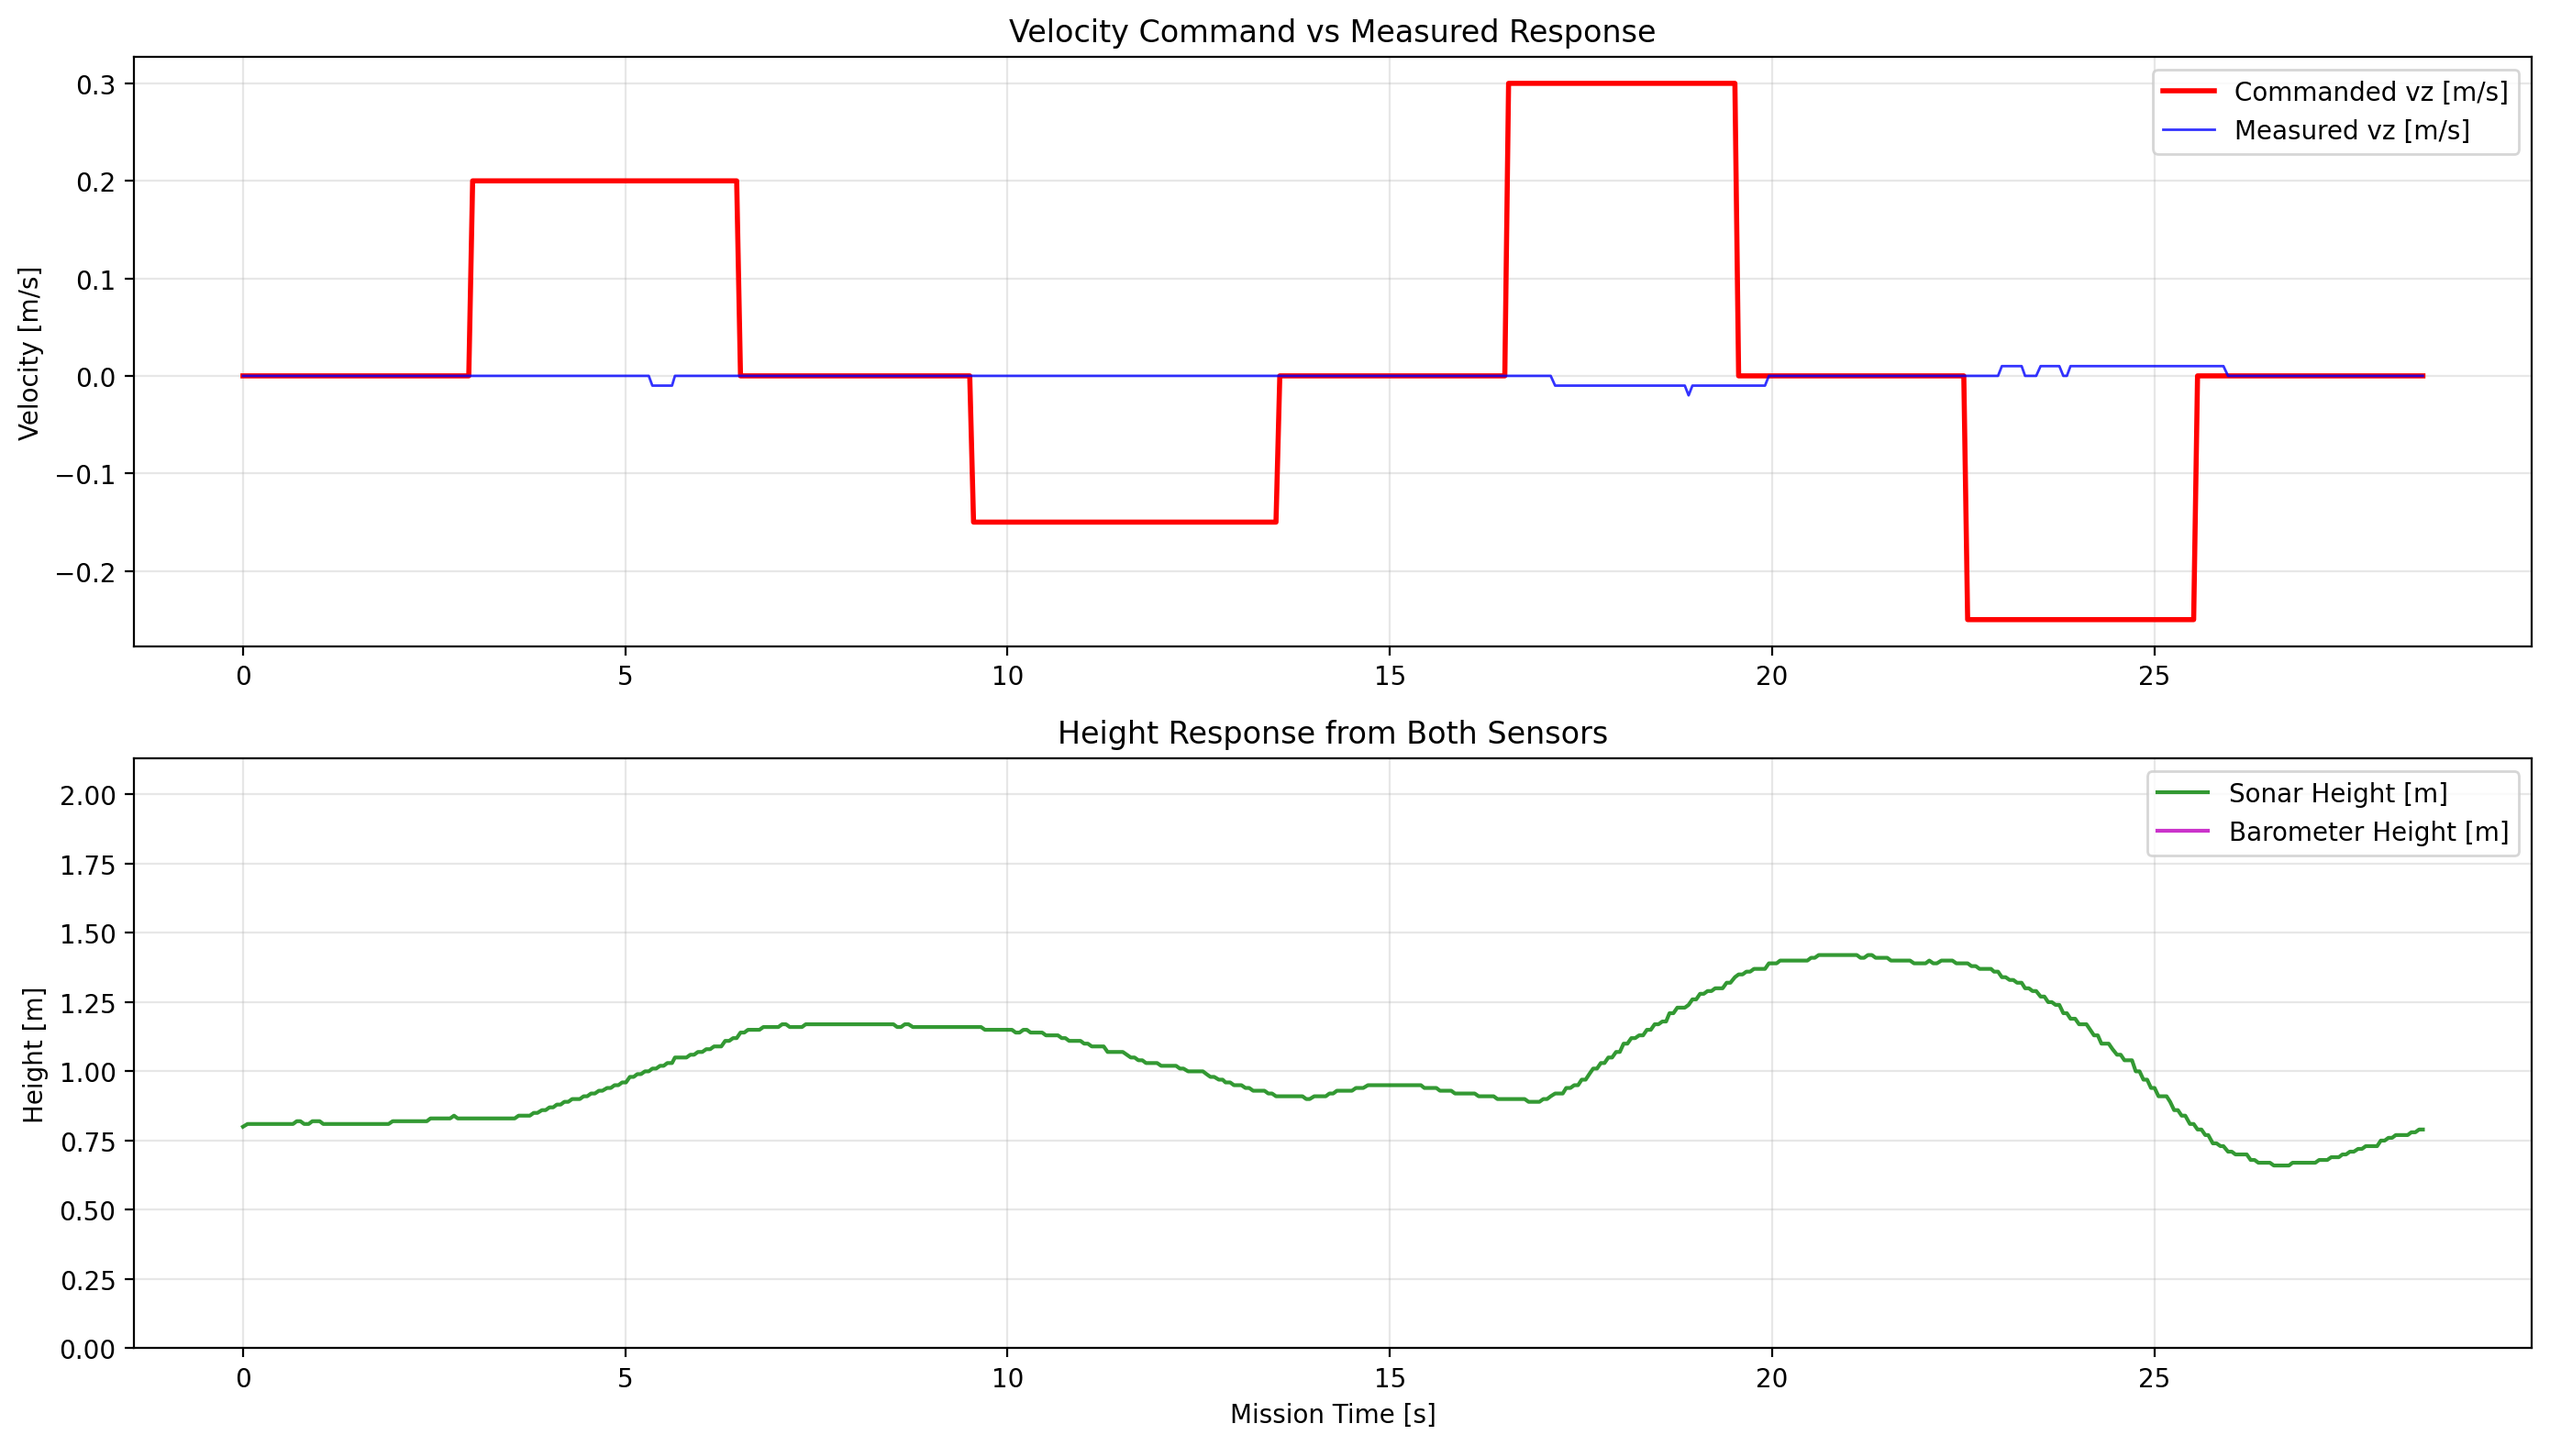
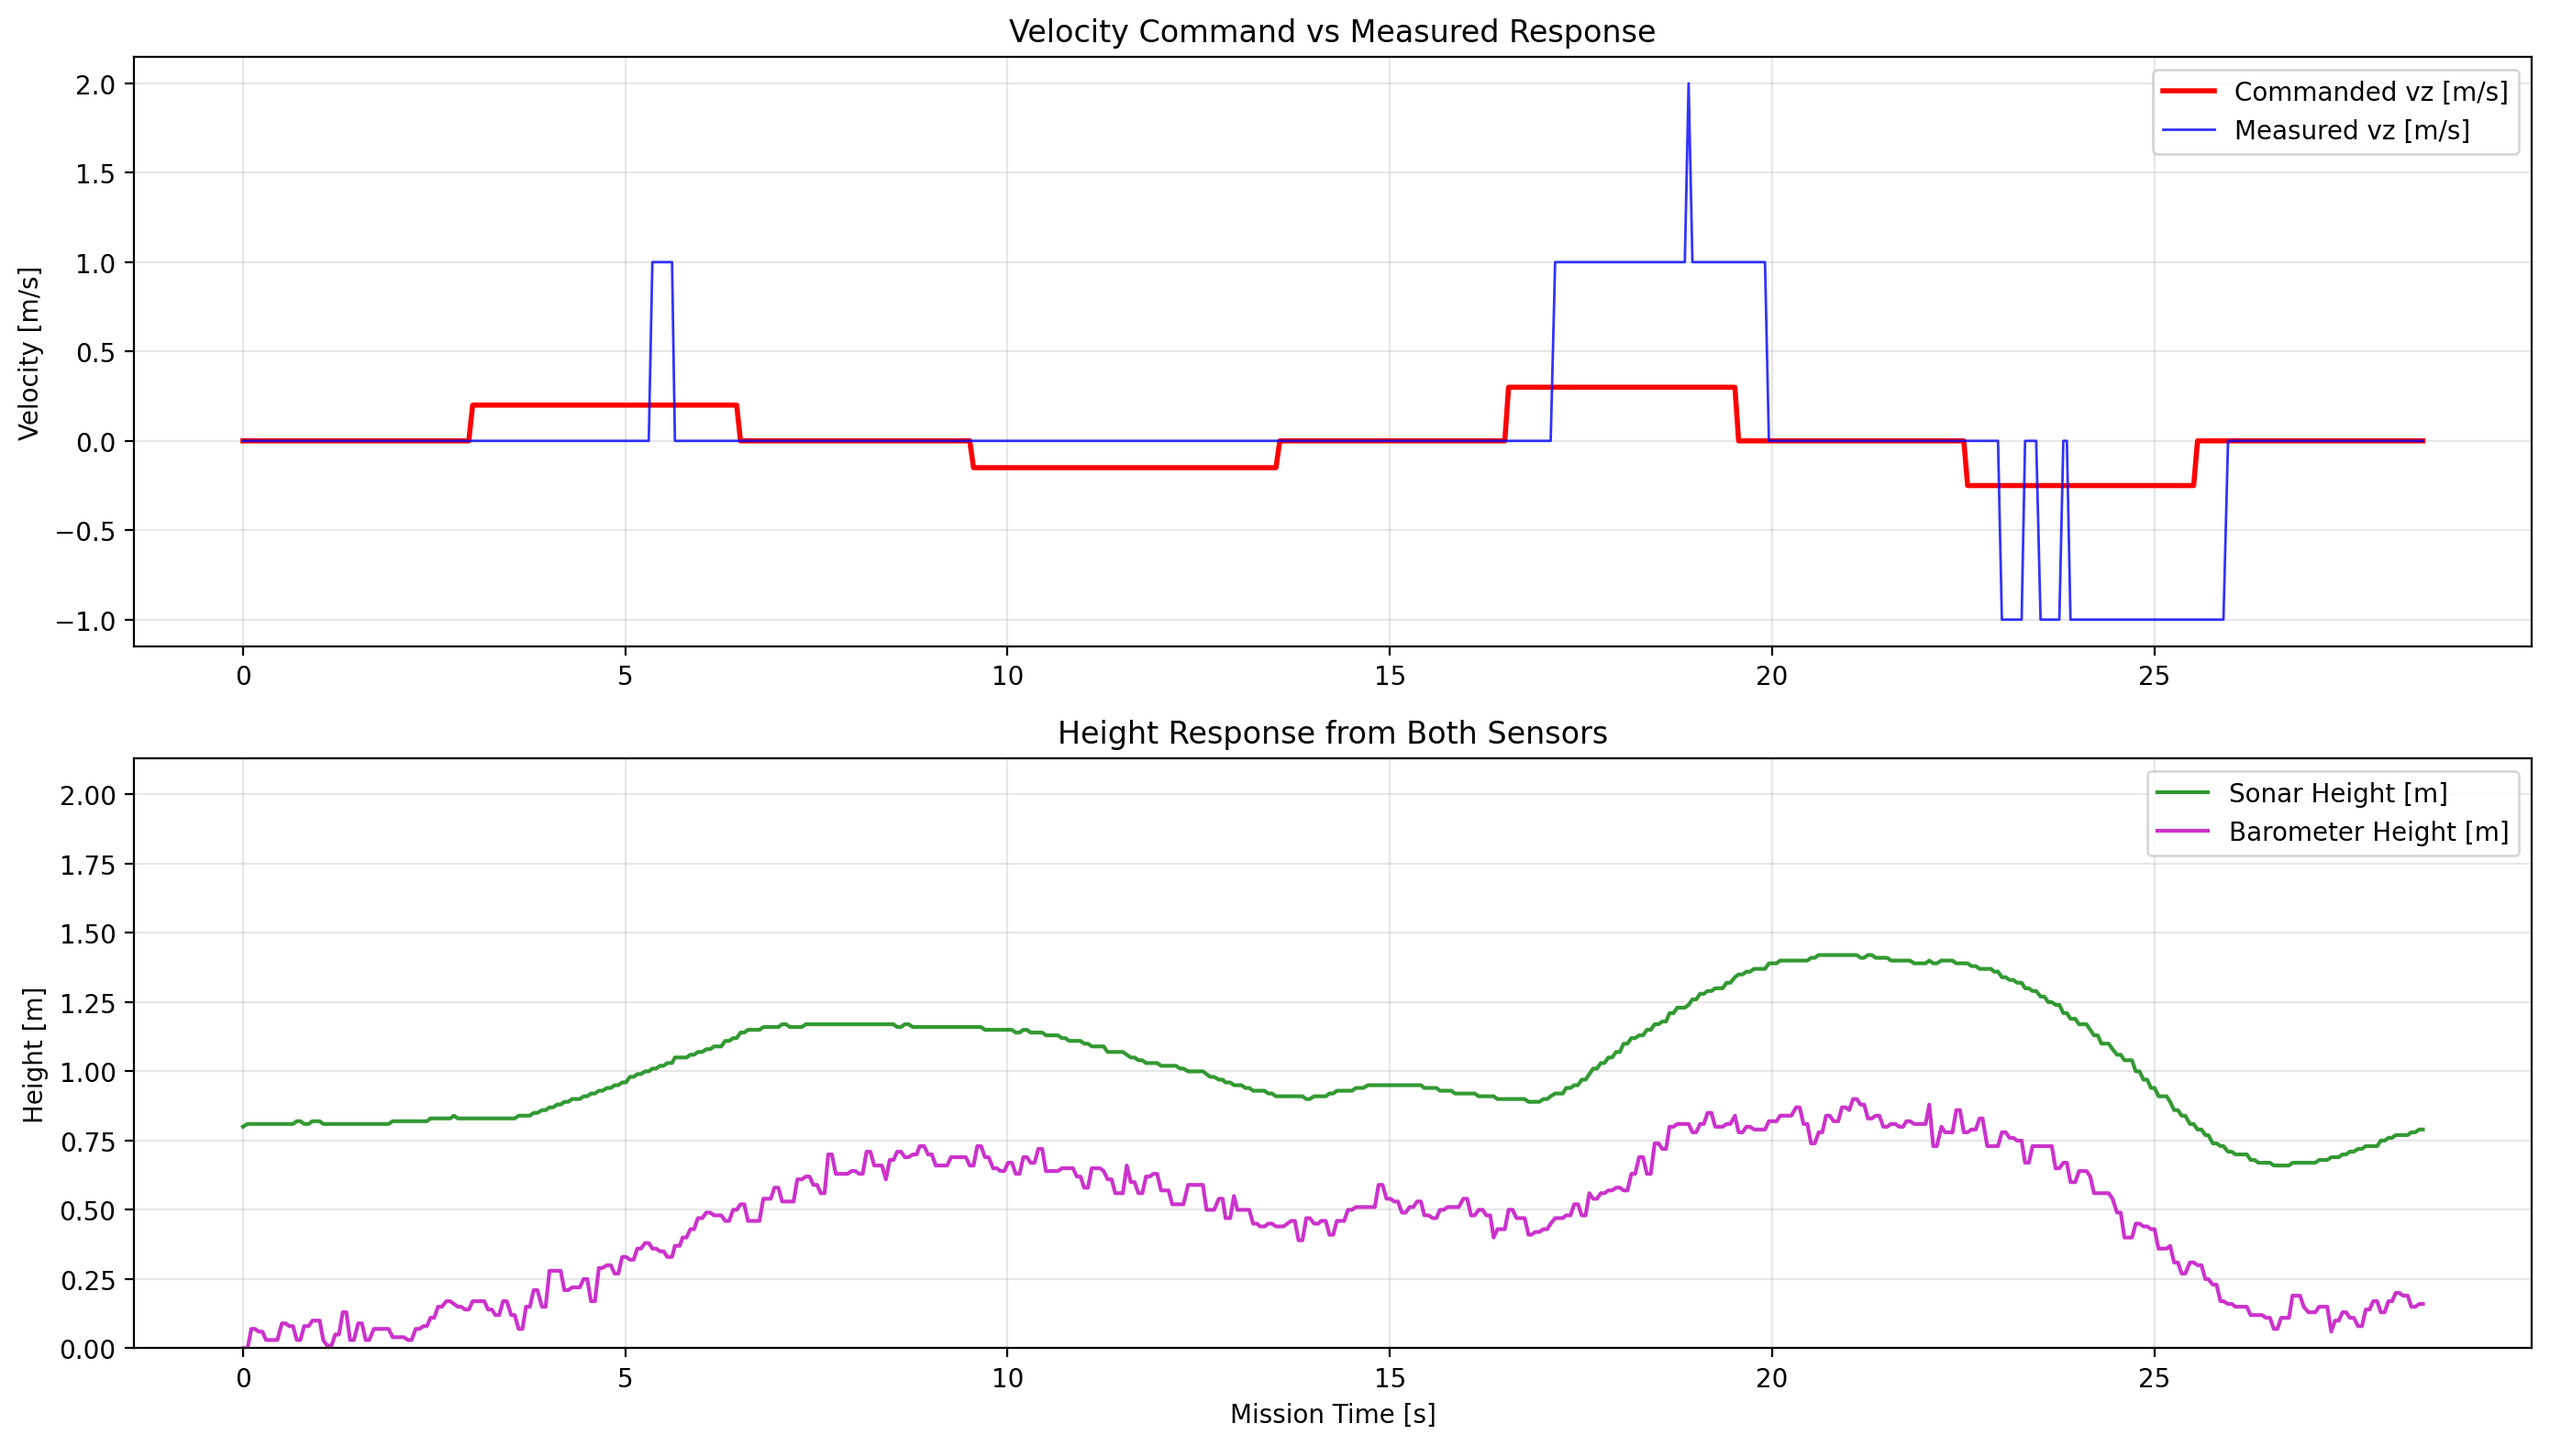
most of phase 2 done

diff --git a/lab1/step_response_calibration.py b/lab1/step_response_calibration.py
@@ -264,7 +264,7 @@ def analyze_step_data(csv_filename):
     
     # Commanded vs measured velocity
     ax1.plot(mission_time, velocity_cmds, 'r-', linewidth=2, label='Commanded vz [m/s]')
-    ax1.plot(mission_time, velocity_measured, 'b-', linewidth=1, alpha=0.8, label='Measured vz [m/s]')
+    ax1.plot(mission_time, velocity_measured*-100, 'b-', linewidth=1, alpha=0.8, label='Measured vz [m/s]')
     ax1.set_ylabel('Velocity [m/s]')
     ax1.set_title('Velocity Command vs Measured Response')
     ax1.legend()
@@ -272,7 +272,7 @@ def analyze_step_data(csv_filename):
     
     # Height response
     ax2.plot(mission_time, height_sonar, 'g-', linewidth=1.5, label='Sonar Height [m]', alpha=0.8)
-    ax2.plot(mission_time, height_baro, 'm-', linewidth=1.5, label='Barometer Height [m]', alpha=0.8)
+    ax2.plot(mission_time, height_baro-height_baro[0], 'm-', linewidth=1.5, label='Barometer Height [m]', alpha=0.8)
     ax2.set_xlabel('Mission Time [s]')
     ax2.set_ylabel('Height [m]')
     ax2.set_title('Height Response from Both Sensors')
@@ -306,7 +306,44 @@ def analyze_step_data(csv_filename):
     # Hint: Skip steps with < 10 samples
     # Hint: Use .iloc[:10] for first 10, .iloc[-10:] for last 10
     # Hint: Use .median() instead of .mean() to reduce noise effects
-    
+
+    indices = np.unique(step_indices)
+    print(f'run indices: {indices}')
+    results = {'dz_expected': np.empty((len(indices), )),
+               'dz_baro': np.empty((len(indices), )),
+               'dz_sonar': np.empty((len(indices), )),
+               'velocity_cmd':np.empty((len(indices), )),
+               }
+
+    for index in indices:
+        print(30*"=")
+        print(f'results for index {index}')
+        step_data = df[df['step_index']==index]
+        if len(step_data) < 10:
+            print('skipping because len(step) < 10')
+            continue
+        velocity_cmd = step_data['velocity_cmd'].iloc[0]
+        results['velocity_cmd'][index] = velocity_cmd
+        print(f'Velocity commanded: {velocity_cmd} m/s')
+        duration = SAMPLE_DT * len(step_data)
+        print(f'movement time: {duration} s')
+        results['dz_expected'][index] = velocity_cmd*duration
+        # print(f'Expected dz: {results["dz_expected"]} m')
+        baro_start = step_data['height_baro'].iloc[:10]
+        baro_stop = step_data['height_baro'].iloc[-10:]
+        results['dz_baro'][index] = baro_stop.median()-baro_start.median()
+        # print(f'Baro dz: {results["dz_baro"]} m')
+        sonar_start = step_data['height_sonar'].iloc[:10]
+        sonar_stop = step_data['height_sonar'].iloc[-10:]
+        results['dz_sonar'][index] = sonar_stop.median() - sonar_start.median()
+        # print(f'Sonar dz: {results["dz_sonar"]} m')
+        print(50*'-')
+        print(f'dz expected (m) \t dz_baro (m)\t dz_sonar (m)\n'
+              f'{round(results["dz_expected"][index],2)} \t\t\t\t {round(results["dz_baro"][index],2)}\t'
+              f'\t\t\t{round(results["dz_sonar"][index],2)}')
+        print(50 * '-')
+
+
     print("TODO: Implement step-by-step analysis")
     
     # ==================== TODO: CALIBRATION REGRESSION ====================
@@ -330,26 +367,66 @@ def analyze_step_data(csv_filename):
     # Hint: Higher R² = better linear relationship
     
     print("TODO: Implement calibration regression")
+    results = df.from_dict(results)
+    results_nz = results[np.abs(results['velocity_cmd']) > 0]
+
+    [baro_scale,baro_bias] = np.polyfit(results_nz['dz_expected'],results_nz['dz_baro'],1)
+    [sonar_scale, sonar_bias] = np.polyfit(results_nz['dz_expected'], results_nz['dz_sonar'], 1)
+
+    print('sensor\t sse \t ss \t R^2 \t RMSE')
+    # baro prediction
+    baro_prediction = baro_scale*results_nz['dz_expected'] + baro_bias
+    sse_baro = np.sum( (baro_prediction-results_nz['dz_baro'])**2)
+    ss_baro = np.sum( (baro_prediction-results_nz['dz_baro'].mean())**2)
+    R2_baro = 1-sse_baro/ss_baro
+    N = len(baro_prediction)
+    RMSE_baro = np.sqrt(1/N * sse_baro)
+    print(f'baro : \t {round(sse_baro,2)} \t {round(ss_baro,2)}\t {round(R2_baro,3)} \t {round(RMSE_baro,3)}')
+
+    # sonar prediction
+    sonar_prediction = sonar_scale * results_nz['dz_expected'] + sonar_bias
+    sse_sonar = np.sum((sonar_prediction - results_nz['dz_sonar']) ** 2)
+    ss_sonar = np.sum((sonar_prediction - results_nz['dz_sonar'].mean()) ** 2)
+    R2_sonar = 1-sse_sonar/ss_sonar
+    N = len(baro_prediction)
+    RMSE_sonar = np.sqrt(1 / N * sse_sonar)
+    print(f'sonar:\t {round(sse_sonar,3)} \t {round(ss_sonar,2)}\t {round(R2_sonar,3)} \t {round(RMSE_sonar,3)}')
+
+
     
     # Dummy values for now - replace with your calculations
-    sonar_scale, sonar_bias, sonar_r2 = 1.0, 0.0, 0.0
-    baro_scale, baro_bias, baro_r2 = 1.0, 0.0, 0.0
-    sonar_rmse, baro_rmse = 0.0, 0.0
+    sonar_scale, sonar_bias, sonar_r2 = sonar_scale, sonar_bias, R2_sonar
+    baro_scale, baro_bias, baro_r2 = baro_scale, baro_bias, R2_baro
+    sonar_rmse, baro_rmse = RMSE_sonar, RMSE_baro
     
     # ==================== TODO: SAVE RESULTS ====================
     
     # TODO: Save calibration table to CSV
     # Use pandas: pd.DataFrame(calibration_table).to_csv(...)
-    
+    results_nz[['dz_expected','dz_baro','dz_sonar']].to_csv('calibration_table.csv')
     # TODO: Determine recommended sensor
     # Compare R² and RMSE - higher R², lower RMSE is better
+    print('based on R^2 and RMSE above barometer appears to be the more accurate sensor but only ever so slightly. \n '
+          'In this case it is basically a dead heat')
     
-    recommended_sensor = "SONAR"  # TODO: Determine from analysis
+    recommended_sensor = "Barometer"  # TODO: Determine from analysis
     
     # TODO: Save results to JSON file
     # Include: recommended_sensor, sonar_calibration{scale, bias, r2, rmse},
     #          barometer_calibration{scale, bias, r2, rmse}
-    
+
+    json_output = {'recommended_sensor': recommended_sensor,
+                   'sonar_calibration':{'scale':sonar_scale,
+                                        'bias':sonar_bias,
+                                        'r2': sonar_r2,
+                                        'rmse':RMSE_sonar},
+                   'baro_calibration':{'scale':baro_scale,
+                                        'bias':baro_bias,
+                                        'r2': baro_r2,
+                                        'rmse':RMSE_baro},}
+
+    with open('Lab1-Phase2/results.json','w+') as f:
+        json.dump(json_output,f,indent=2)
     print(f"\n{'='*60}")
     print("PHASE 2 CALIBRATION RESULTS")
     print(f"{'='*60}")
@@ -363,7 +440,8 @@ def main():
     print("=" * 40)
     
     # Run the step calibration test
-    csv_filename = run_step_calibration()
+    #csv_filename = run_step_calibration()
+    csv_filename = f'Lab1-Phase2/step_calibration_data.csv'
     
     if csv_filename:
         # Analyze the collected data
